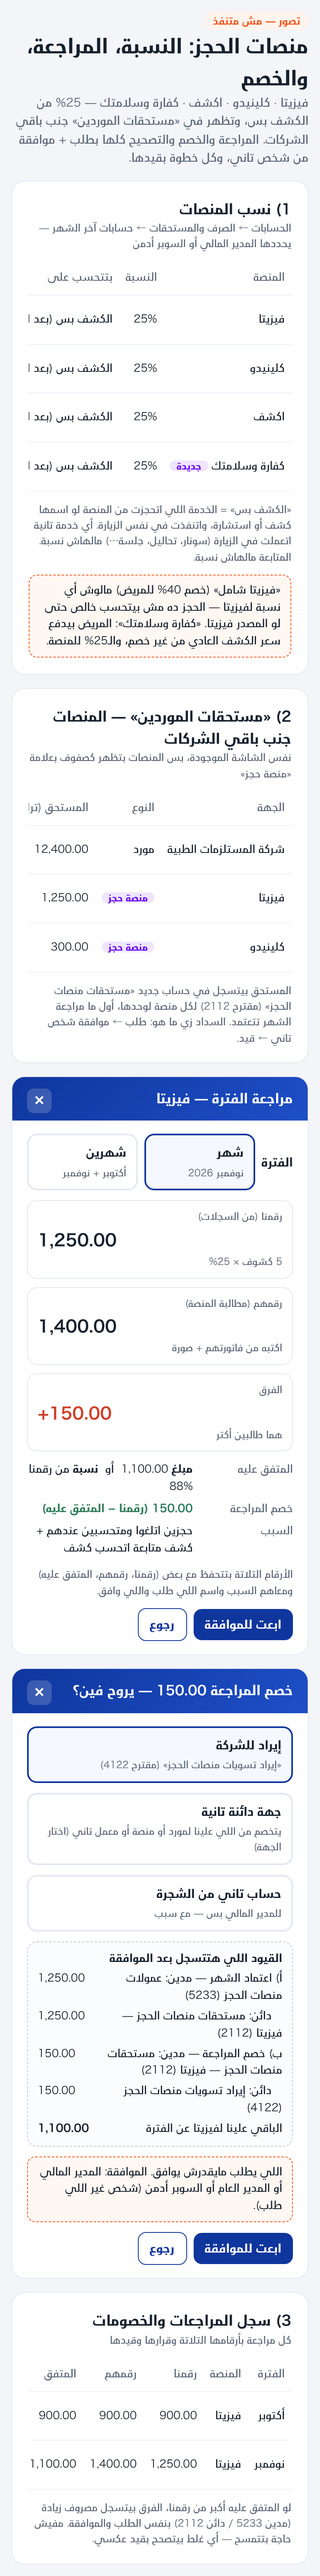
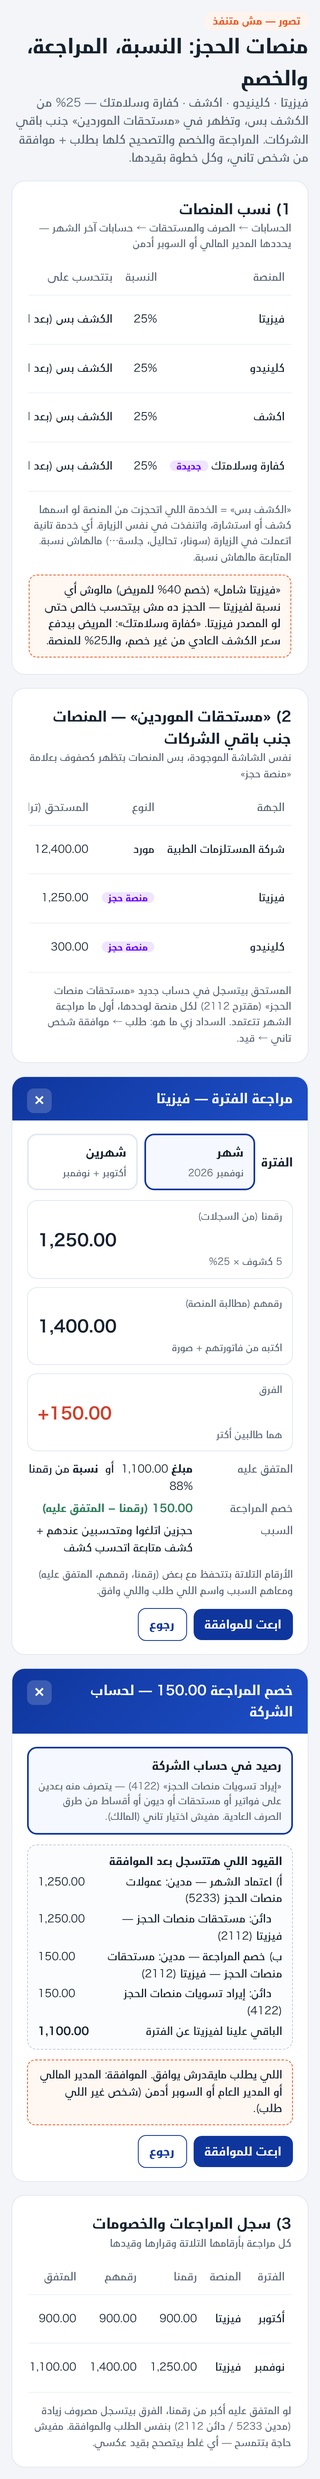
#899: the audit deduction always goes to the company (4122) — owner «خليه رصيد في حساب الشركة»
Drops the «جهة دائنة تانية» and «حساب تاني من الشجرة» destinations: the RPC refuses any other destination,
the screen shows the fixed company account, help 306 / mockup / tests / live dry-run updated.

Claude-Session: https://claude.ai/code/session_01UqVZHa8rtphDgrTCHvkxpz

Changed region(s): [[0.0308, 0.0, 0.9846, 0.996], [0.0923, 0.3113, 0.1231, 0.3424]]

diff --git a/assets/js/month-end-accounts.js b/assets/js/month-end-accounts.js
@@ -3,7 +3,7 @@
    % of the executed كشف), the external lab (price-list cost) and the dental lab (per case), and what مركز الطاهرة owes us (30% of
    the referrals). Rates (FM / super admin), details, «طلب سداد» (accountant / FM) and «اعتماد» by another person (FM / GM / SA).
    Reception card (live workspace): «تحويل لمركز الطاهرة» and «فاتورة معمل أسنان». Server: public.clinic_finance_month_end (20261126110000).
-   Booking platforms (20261126180000, help 306): «مراجعة الفترة» (ours / theirs / agreed + reason, deduction destination), the audits
+   Booking platforms (20261126180000, help 306): «مراجعة الفترة» (ours / theirs / agreed + reason; the deduction always goes to the company, 4122), the audits
    list with approve / reject by another person, and the platforms rows in «مستحقات الموردين» (suppliers tab). */
 (function(w,d){'use strict';
 var MET={cash:'كاش من الخزينة الرئيسية',bank:'تحويل بنكي',wallet:'فودافون كاش (المحافظ)'};
@@ -58,7 +58,7 @@ function settleModal(box,s,key){var p=(s.parties||[]).find(function(x){return x.
  modal(recv?'طلب تحصيل — '+p.name:'طلب سداد — '+p.name,body,async function(v,k){var amt=+v.amount;if(!(amt>0))throw new Error('اكتب المبلغ');if(amt>+p.remaining)throw new Error('المبلغ أكبر من المتبقي');
    await rpc('settle_request',{party:key,month:s.month,amount:amt,method:v.method,reference:v.reference,note:v.note||'',token:k});toast('الطلب اتبعت للاعتماد');load(box);},'ابعت للاعتماد');}
 /* ---------- booking platforms: period audit (help 306) ---------- */
-var DK={income:'إيراد للشركة',payable:'جهة دائنة تانية',account:'حساب تاني من الشجرة'};
+var DK={income:'حساب الشركة'};
 function ym(v){return v?String(v).slice(0,7):'';}
 function addMonth(m,n){var p=m.split('-'),y=+p[0],mo=+p[1]-1+n;y+=Math.floor(mo/12);mo=((mo%12)+12)%12;return y+'-'+String(mo+1).padStart(2,'0');}
 function auditsHtml(a){var xs=a.audits||[];if(!xs.length)return '<p class="fc-note">مفيش مراجعات لسه. «مراجعة الفترة» قصاد كل منصة.</p>';
@@ -69,7 +69,7 @@ function auditsHtml(a){var xs=a.audits||[];if(!xs.length)return '<p class="fc-no
     '<td>'+(x.dest_kind?esc(DK[x.dest_kind]||x.dest_kind)+'<br><small>'+esc(x.dest_name||'')+' ('+esc(x.dest_account)+')</small>':'—')+'</td><td>'+esc(x.by||'')+'<br><small>'+esc(x.reason)+'</small></td><td>'+badge(x.status)+(x.review_note?'<br><small>'+esc(x.review_note)+'</small>':'')+'</td>'+
     '<td>'+(x.status==='pending'&&a.can_review&&!x.mine?'<button type="button" class="btn btn-primary" data-mea-aok="'+esc(x.id)+'">اعتماد</button> <button type="button" class="btn" data-mea-ano="'+esc(x.id)+'">رفض</button>':'')+'</td></tr>';}).join('')+'</tbody></table></div>';}
 function auditModal(key,name,month,a,done){
- var dest=[['income:4122',DK.income+' — '+((a.income_account||{}).name||'إيراد تسويات منصات الحجز')+' (4122)']].concat((a.payable_accounts||[]).map(function(x){return ['payable:'+x.code,DK.payable+' — '+x.name+' ('+x.code+')'];}),(a.other_accounts||[]).map(function(x){return ['account:'+x.code,DK.account+' — '+x.name+' ('+x.code+')'];}));
+ var inc=(a.income_account||{}).name||'إيراد تسويات منصات الحجز';
  var body='<p class="rse-intro" data-wide>رقمنا من السجلات: <b dir="ltr" data-mea-ours>…</b> جنيه <small data-mea-cases></small></p>'+
   '<label>الفترة<select name="span" required><option value="1">شهر</option><option value="2">شهرين (الشهر ده واللي قبله)</option></select></label>'+
   fld('month','آخر شهر في الفترة','month',ym(month),'required')+
@@ -77,23 +77,23 @@ function auditModal(key,name,month,a,done){
   '<label>المتفق عليه<select name="agreed_mode" required><option value="amount">مبلغ</option><option value="percent">نسبة من رقمنا</option></select></label>'+
   fld('agreed_value','قيمة المتفق عليه','number','','required min="0" step="0.01" inputmode="decimal"')+
   '<label data-wide>سبب الاتفاق<input name="reason" required minlength="3" maxlength="400" placeholder="مثلاً: حجزين اتلغوا ومتحسبين عندهم"></label>'+
-  '<label data-wide data-mea-destwrap hidden>خصم المراجعة يروح فين؟<select name="dest">'+dest.map(function(o){return '<option value="'+esc(o[0])+'">'+esc(o[1])+'</option>';}).join('')+'</select></label>'+
+  '<p class="rse-note" data-wide data-mea-destwrap hidden>خصم المراجعة بيروح لحساب الشركة: «'+esc(inc)+'» (4122) — رصيد للشركة يتصرف منه بعدين على الفواتير والمستحقات من طرق الصرف العادية.</p>'+
   '<p class="rse-note" data-wide data-mea-sum></p>'+
-  '<p class="rse-note" data-wide>الأرقام التلاتة بتتحفظ مع السبب. القيد بيتسجل لما شخص تاني (المدير المالي أو المدير العام أو السوبر أدمن) يعتمد: الاستحقاق على «مستحقات منصات الحجز»، والخصم على المكان اللي اخترته.</p>';
- var ours=null,root=modal('مراجعة الفترة — '+name,body,async function(v,k){if(ours==null)throw new Error('استنى رقمنا يتحسب');var range=per(v),ag=agreed(v),d0=ag<ours?String(v.dest||'').split(':'):[null,null];
-   await rpc('audit_request',{party:key,from:range[0]+'-01',to:range[1]+'-01',theirs:v.theirs,theirs_ref:v.theirs_ref,agreed_mode:v.agreed_mode,agreed_value:v.agreed_value,reason:v.reason,dest_kind:d0[0],dest_account:d0[1],token:k});
+  '<p class="rse-note" data-wide>الأرقام التلاتة بتتحفظ مع السبب. القيد بيتسجل لما شخص تاني (المدير المالي أو المدير العام أو السوبر أدمن) يعتمد: الاستحقاق على «مستحقات منصات الحجز»، والخصم لحساب الشركة.</p>';
+ var ours=null,root=modal('مراجعة الفترة — '+name,body,async function(v,k){if(ours==null)throw new Error('استنى رقمنا يتحسب');var range=per(v),ag=agreed(v);
+   await rpc('audit_request',{party:key,from:range[0]+'-01',to:range[1]+'-01',theirs:v.theirs,theirs_ref:v.theirs_ref,agreed_mode:v.agreed_mode,agreed_value:v.agreed_value,reason:v.reason,token:k});
    toast('المراجعة اتبعتت للاعتماد');if(done)done();},'ابعت للاعتماد');if(!root)return null;
  var form=root.querySelector('form');
  function per(v){var end=v.month||ym(month);return [+v.span===2?addMonth(end,-1):end,end];}
  function agreed(v){var x=+v.agreed_value||0;return v.agreed_mode==='percent'?Math.round((ours||0)*x)/100:x;}
  function vals(){var v={};Array.prototype.forEach.call(form.elements,function(x){if(x.name)v[x.name]=x.value;});return v;}
- function sum(){var v=vals(),ag=agreed(v),wrap=form.querySelector('[data-mea-destwrap]'),need=ours!=null&&v.agreed_value!==''&&ag<ours;wrap.hidden=!need;form.elements.dest.required=need;form.elements.dest.disabled=!need;
+ function sum(){var v=vals(),ag=agreed(v),wrap=form.querySelector('[data-mea-destwrap]'),need=ours!=null&&v.agreed_value!==''&&ag<ours;wrap.hidden=!need;
   form.querySelector('[data-mea-sum]').textContent=ours==null||v.agreed_value===''?'':'المتفق عليه '+money(ag)+' — '+(ag<ours?'خصم المراجعة '+money(ours-ag):ag>ours?'زيادة على رقمنا '+money(ag-ours)+' (بتتسجل مصروف)':'زي رقمنا بالظبط')+(v.theirs!==''?' · الفرق مع رقمهم '+money((+v.theirs||0)-ag):'');}
  function preview(){var r=per(vals());ours=null;root.querySelector('[data-mea-ours]').textContent='…';
   return rpc('audit_preview',{party:key,from:r[0]+'-01',to:r[1]+'-01'}).then(function(x){ours=+x.ours||0;root.querySelector('[data-mea-ours]').textContent=money(ours);
    root.querySelector('[data-mea-cases]').textContent='('+(x.cases||0)+' كشف × '+esc(x.percent==null?'—':+x.percent)+'%)'+(x.overlap?' — الفترة دي اتراجعت قبل كده':'');sum();},function(e){root.querySelector('[data-mea-status]').textContent=e.message||'تعذر الحساب';});}
  form.elements.span.onchange=preview;form.elements.month.onchange=preview;['agreed_mode','agreed_value','theirs'].forEach(function(n){form.elements[n].oninput=sum;form.elements[n].onchange=sum;});
- form.elements.dest.disabled=true;root._preview=preview();return root;}
+ root._preview=preview();return root;}
 function reviewAudit(id,ok,done){if(ok)return rpc('audit_review',{id:id,ok:true}).then(function(){toast('اتعتمدت واتسجل القيد');done();});
  modal('رفض المراجعة','<label data-wide>سبب الرفض<input name="note" required minlength="3" maxlength="300"></label>',async function(v){await rpc('audit_review',{id:id,ok:false,note:v.note});toast('اترفضت');done();},'رفض');return Promise.resolve();}
 function wireAudits(host,a,again){host.querySelectorAll('[data-mea-aok]').forEach(function(b){b.onclick=function(){b.disabled=true;reviewAudit(b.getAttribute('data-mea-aok'),true,again).catch(function(e){b.disabled=false;toast(e.message||'تعذر','error');});};});

diff --git a/assets/js/dashboard-help-data.js b/assets/js/dashboard-help-data.js
@@ -105,15 +105,15 @@ window.SSMPDHelpData={
       "id": "platform-audit",
       "title": "«مراجعة الفترة» لمنصات الحجز — رقمنا ورقمهم والمتفق عليه وخصم المراجعة",
       "tab": "accounting",
-      "terms": "مراجعة الفترة منصات الحجز فيزيتا كلينيدو اكشف كفارة وسلامتك اوديت ديدكشن خصم المراجعة رقمنا رقمهم المتفق عليه مطالبة المنصة مستحقات منصات الحجز 2112 4122 مستحقات الموردين",
-      "meaning": "المنصة بتبعت مطالبتها كل شهر أو شهرين. بنقارن رقمنا من السجلات برقمهم، ونسجل الرقم اللي اتفقنا عليه وسببه. لو المتفق عليه أقل من رقمنا، الفرق «خصم مراجعة» وإنت بتختار يروح فين. كل ده بموافقة شخص تاني وبقيده.",
+      "terms": "مراجعة الفترة منصات الحجز فيزيتا كلينيدو اكشف كفارة وسلامتك اوديت ديدكشن خصم المراجعة رقمنا رقمهم المتفق عليه مطالبة المنصة مستحقات منصات الحجز 2112 4122 رصيد الشركة مستحقات الموردين",
+      "meaning": "المنصة بتبعت مطالبتها كل شهر أو شهرين. بنقارن رقمنا من السجلات برقمهم، ونسجل الرقم اللي اتفقنا عليه وسببه. لو المتفق عليه أقل من رقمنا، الفرق «خصم مراجعة» بيروح لحساب الشركة كرصيد. كل ده بموافقة شخص تاني وبقيده.",
       "steps": [
         "من «حسابات آخر الشهر» (أو «مستحقات الموردين» ← منصات الحجز): «مراجعة الفترة» قصاد المنصة. المحاسب أو المدير المالي بس.",
         "اختار الفترة: شهر، أو شهرين (الشهر ده واللي قبله). رقمنا بيتحسب لوحده من الكشوف المتنفذة × 25%.",
         "اكتب رقمهم (مطالبة المنصة) ورقم فاتورتهم، والمتفق عليه: مبلغ، أو نسبة من رقمنا، وسبب الاتفاق.",
-        "لو المتفق عليه أقل من رقمنا، اختار خصم المراجعة يروح فين: «إيراد للشركة» (4122)، أو «جهة دائنة تانية» (حساب دائن)، أو «حساب تاني من الشجرة» (للمدير المالي بس). لو المتفق عليه أكبر، الزيادة بتتسجل مصروف.",
+        "لو المتفق عليه أقل من رقمنا، الفرق «خصم مراجعة» وبيروح دايماً لحساب الشركة «إيراد تسويات منصات الحجز» (4122) — رصيد للشركة يتصرف منه بعدين على فواتير أو مستحقات أو ديون أو أقساط من طرق الصرف العادية. لو المتفق عليه أكبر، الزيادة بتتسجل مصروف.",
         "«ابعت للاعتماد»: المدير المالي أو المدير العام أو السوبر أدمن يعتمد أو يرفض بسبب — وماينفعش اللي عمل الطلب يعتمده. نفس الفترة ماتتراجعش مرتين، ولو رقمنا اتغيّر من وقت الطلب الاعتماد بيترفض.",
-        "بعد الاعتماد بيتقيد: مدين عمولات منصات الحجز 5233 / دائن مستحقات منصات الحجز 2112 برقمنا، وخصم المراجعة مدين 2112 / دائن المكان اللي اخترته. السداد بعدها من «طلب سداد» على 2112."
+        "بعد الاعتماد بيتقيد: مدين عمولات منصات الحجز 5233 / دائن مستحقات منصات الحجز 2112 برقمنا، وخصم المراجعة مدين 2112 / دائن إيراد تسويات منصات الحجز 4122. السداد بعدها من «طلب سداد» على 2112."
       ],
       "links": [
         "month-end-accounts",

diff --git a/docs/ui-references/mockups/platform-audit.html b/docs/ui-references/mockups/platform-audit.html
@@ -77,11 +77,9 @@ table{width:100%;border-collapse:collapse;font-size:13px}th,td{text-align:right;
 </section>
 
 <section class="modal" aria-label="مكان خصم المراجعة">
- <div class="mh"><button class="x" aria-label="إغلاق">✕</button>خصم المراجعة <bdi dir="ltr">150.00</bdi> — يروح فين؟</div>
+ <div class="mh"><button class="x" aria-label="إغلاق">✕</button>خصم المراجعة <bdi dir="ltr">150.00</bdi> — لحساب الشركة</div>
  <div class="mb">
-  <div class="opt on"><b>إيراد للشركة</b><small>«إيراد تسويات منصات الحجز» (مقترح 4122)</small></div>
-  <div class="opt"><b>جهة دائنة تانية</b><small>يتخصم من اللي علينا لمورد أو منصة أو معمل تاني (اختار الجهة)</small></div>
-  <div class="opt"><b>حساب تاني من الشجرة</b><small>للمدير المالي بس — مع سبب</small></div>
+  <div class="opt on"><b>رصيد في حساب الشركة</b><small>«إيراد تسويات منصات الحجز» (4122) — يتصرف منه بعدين على فواتير أو مستحقات أو ديون أو أقساط من طرق الصرف العادية. مفيش اختيار تاني (المالك).</small></div>
   <div class="entry"><b>القيود اللي هتتسجل بعد الموافقة</b>
    <div class="ln"><span>أ) اعتماد الشهر — مدين: عمولات منصات الحجز (5233)</span><bdi dir="ltr">1,250.00</bdi></div>
    <div class="ln"><span>&nbsp;&nbsp;&nbsp;دائن: مستحقات منصات الحجز — فيزيتا (2112)</span><bdi dir="ltr">1,250.00</bdi></div>
@@ -99,7 +97,7 @@ table{width:100%;border-collapse:collapse;font-size:13px}th,td{text-align:right;
  <h2>3) سجل المراجعات والخصومات<small>كل مراجعة بأرقامها التلاتة وقرارها وقيدها</small></h2>
  <table><thead><tr><th>الفترة</th><th>المنصة</th><th>رقمنا</th><th>رقمهم</th><th>المتفق</th><th>الخصم</th><th>راح فين</th><th>الحالة</th><th></th></tr></thead><tbody>
   <tr><td>أكتوبر</td><td>فيزيتا</td><td><bdi dir="ltr">900.00</bdi></td><td><bdi dir="ltr">900.00</bdi></td><td><bdi dir="ltr">900.00</bdi></td><td>—</td><td>—</td><td><span class="st ok">اتعتمد</span></td><td><button class="btn ghost">القيد</button></td></tr>
-  <tr><td>نوفمبر</td><td>فيزيتا</td><td><bdi dir="ltr">1,250.00</bdi></td><td><bdi dir="ltr">1,400.00</bdi></td><td><bdi dir="ltr">1,100.00</bdi></td><td class="pos"><bdi dir="ltr">150.00</bdi></td><td>إيراد للشركة</td><td><span class="st wait">مستني موافقة</span></td><td><button class="btn">موافقة</button> <button class="btn ghost">رفض</button></td></tr>
+  <tr><td>نوفمبر</td><td>فيزيتا</td><td><bdi dir="ltr">1,250.00</bdi></td><td><bdi dir="ltr">1,400.00</bdi></td><td><bdi dir="ltr">1,100.00</bdi></td><td class="pos"><bdi dir="ltr">150.00</bdi></td><td>حساب الشركة (4122)</td><td><span class="st wait">مستني موافقة</span></td><td><button class="btn">موافقة</button> <button class="btn ghost">رفض</button></td></tr>
  </tbody></table>
  <p class="note">لو المتفق عليه أكبر من رقمنا، الفرق بيتسجل مصروف زيادة (مدين 5233 / دائن 2112) بنفس الطلب والموافقة. مفيش حاجة بتتمسح — أي غلط بيتصحح بقيد عكسي.</p>
 </section>

diff --git a/assets/js/dashboard-help.js b/assets/js/dashboard-help.js
@@ -71,7 +71,7 @@ function track(e){if(!e.target.closest('.dh-backdrop')&&e.target.form&&e.target.
 function enhance(){doc.querySelectorAll('.modal-backdrop .modal,[role="dialog"]').forEach(function(el){if(el.closest('.dh-backdrop')||el.querySelector('[data-dashboard-help]'))return;var b=doc.createElement('button');b.type='button';b.className='btn dh-form-help';b.dataset.dashboardHelp='1';b.textContent='شرح النموذج';b.onclick=function(){open();fieldGuide();};el.prepend(b);});}
 function mount(c){dispose();config=c;var b=doc.getElementById('dashboard-help-toggle');if(b)b.onclick=function(){open();};doc.addEventListener('input',track);doc.addEventListener('change',track);observer=new MutationObserver(enhance);observer.observe(doc.body,{childList:true,subtree:true});enhance();coachRestore();setTimeout(function(){if(config)loadData().catch(function(){});},4000);}
 function dispose(){close();coachRemove();if(observer)observer.disconnect();observer=null;doc.removeEventListener('input',track);doc.removeEventListener('change',track);dirtyForms=new WeakSet();config=null;}
-var DATA_FILES=['assets/js/dashboard-help-data.js?v=help-306-platforms-20261126-1','assets/js/dashboard-help-fields.js?v=help-306-platforms-20261126-1'],dataPromise=null;
+var DATA_FILES=['assets/js/dashboard-help-data.js?v=help-306-platforms-20261126-2','assets/js/dashboard-help-fields.js?v=help-306-platforms-20261126-2'],dataPromise=null;
 function dataReady(){var d=root.SSMPDHelpData;return !!(d&&d.fieldCoverage);}
 function addScript(src){return new Promise(function(ok,fail){var x=doc.createElement('script');x.src=src;x.async=false;x.onload=ok;x.onerror=function(){fail(Error('help'));};doc.head.appendChild(x);});}
 function loadData(){if(dataReady())return Promise.resolve();if(dataPromise)return dataPromise;dataPromise=addScript(DATA_FILES[0]).then(function(){return addScript(DATA_FILES[1]);}).then(function(){fieldArticleCache=null;var p=root.SSMPDHelpPending||[];root.SSMPDHelpPending=[];p.forEach(function(f){root.SSMPDHelpData.fields.push(f);});if(config)coachRestore();}).catch(function(e){dataPromise=null;throw e;});return dataPromise;}

diff --git a/index.html b/index.html
@@ -255,7 +255,7 @@
 <script src="assets/js/reception-shift-expenses.js?v=shift-expenses-redesign-20261126-1"></script>
 <script src="assets/js/partner-accounts.js?v=partners-20261126-1"></script>
 <script src="assets/js/drawer-requests.js?v=drawer-req-20261126-2"></script>
-<script src="assets/js/month-end-accounts.js?v=platform-audit-20261126-1"></script>
+<script src="assets/js/month-end-accounts.js?v=platform-audit-20261126-2"></script>
 <script src="assets/js/reception-minicards.js?v=minicards-1"></script>
 <script src="assets/js/reception-follow-ups.js?v=center-name-20261122-2"></script>
 <script src="assets/js/reception-reminders.js?v=center-name-20261122-1"></script>
@@ -334,7 +334,7 @@
 <script src="assets/js/training-videos.js?v=tips-coach-20261122-1"></script>
 <script src="assets/js/tips-coach.js?v=handover-choice-20261124-1"></script>
 <script src="assets/js/usage-heatmap.js?v=heatmap-20261114-1"></script>
-<script src="assets/js/dashboard-help.js?v=help-306-platforms-20261126-1"></script>
+<script src="assets/js/dashboard-help.js?v=help-306-platforms-20261126-2"></script>
 <script src="assets/js/workforce-prices.js?v=hr-requests-polish-20261126-1"></script>
 <script src="assets/js/training-course-data.js?v=training-gahar-20261119-1"></script>
 <script src="assets/js/training-evaluation.js?v=training-center-20261119-8"></script>

diff --git a/assets/js/dashboard-help-fields.js b/assets/js/dashboard-help-fields.js
@@ -12301,19 +12301,6 @@
       "reviewed": true
     },
     {
-      "title": "خصم المراجعة يروح فين؟",
-      "labels": [
-        "خصم المراجعة يروح فين؟"
-      ],
-      "text": "لو المتفق عليه أقل من رقمنا: إيراد للشركة (4122)، أو حساب دائن تاني، أو حساب من الشجرة (للمدير المالي بس).",
-      "article": "platform-audit",
-      "tabs": [
-        "production"
-      ],
-      "forms": [],
-      "reviewed": true
-    },
-    {
       "title": "سبب الرفض",
       "labels": [
         "سبب الرفض"
@@ -23815,9 +23802,9 @@
   ],
   "coverage": {
     "version": "20261117-1",
-    "definitions": 2049,
-    "labels": 1486,
+    "definitions": 2048,
+    "labels": 1485,
     "files": 166,
-    "groups": 1619
+    "groups": 1618
   }
 };window.SSMPDHelpData.fields=window.SSMPDHelpData.fields.concat(data.fields);window.SSMPDHelpData.fieldCoverage=data.coverage;})();
